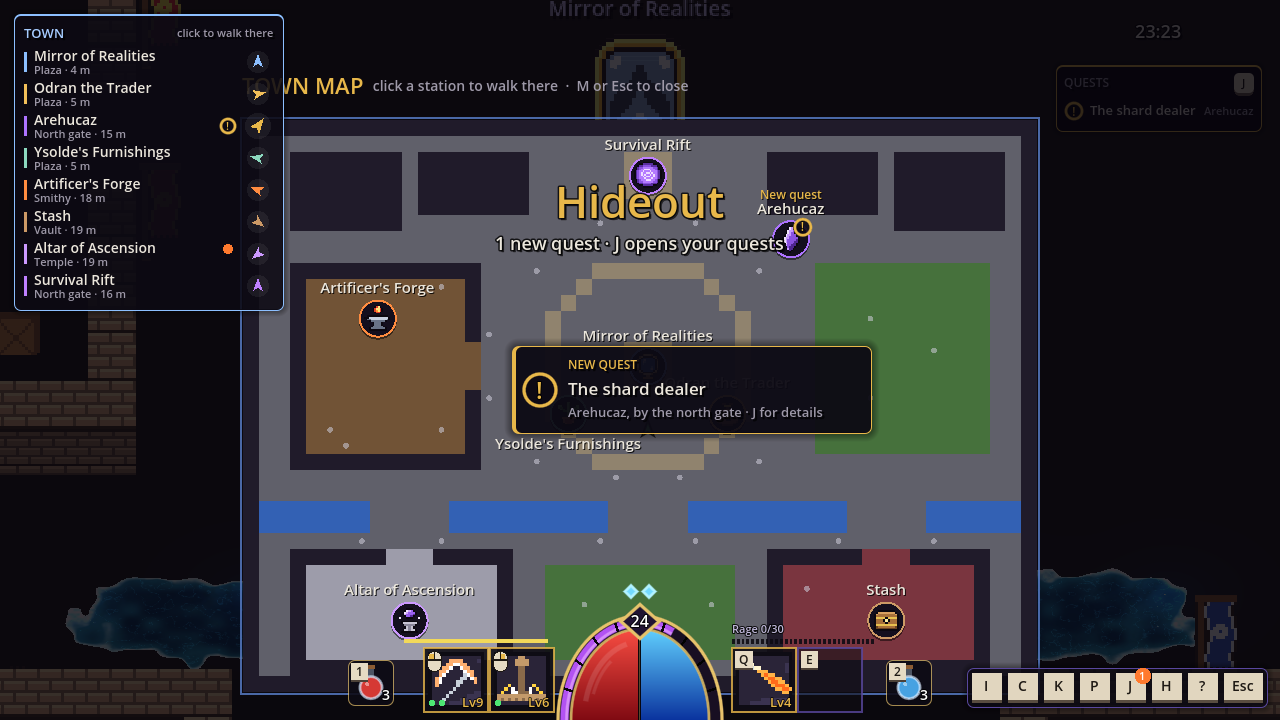
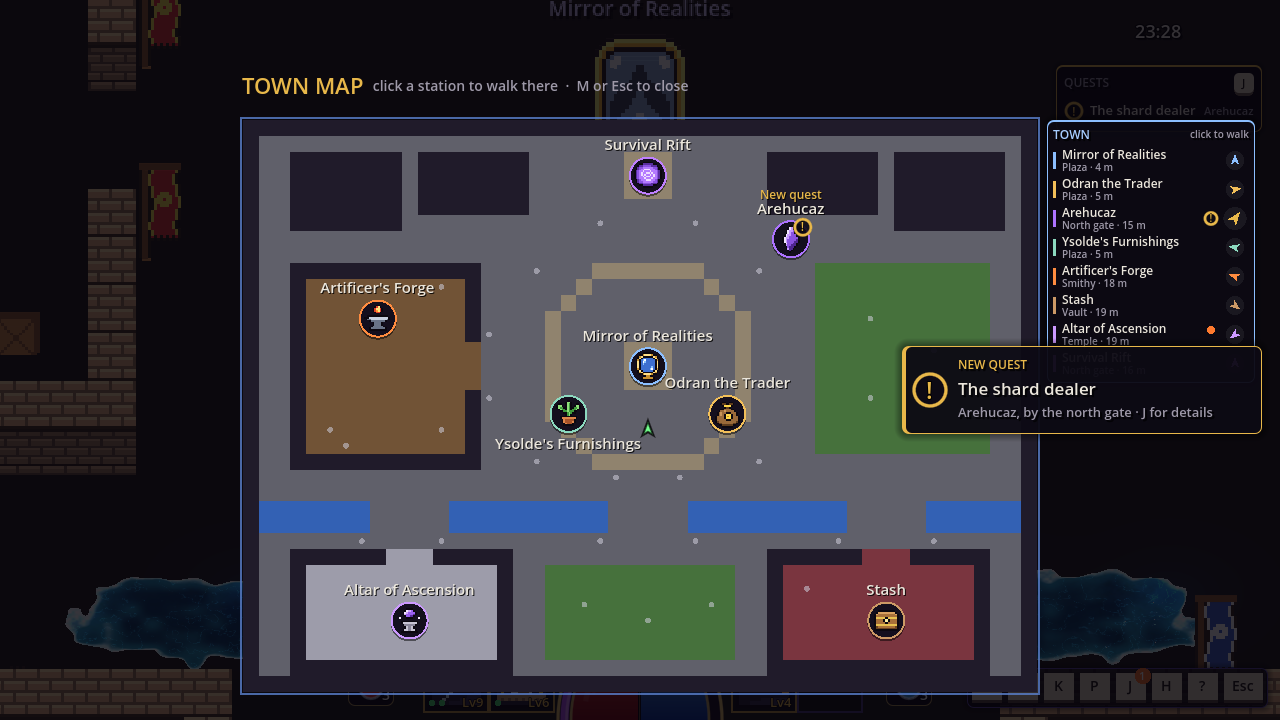
Big town map: legend right of the map, HUD behind the veil
- The town directory (the map's legend) sits just right of the drawn map,
  top-aligned, with smaller rows so it fits (TownMap.MapArea).
- The big map is built after the vitals, skills and menu bar again, so its
  veil covers them; only the legend is drawn over it.

Claude-Session: https://claude.ai/code/session_01GALgSjVnubwo1yyZxU2YPv

diff --git a/scripts/UI/HideoutHud.cs b/scripts/UI/HideoutHud.cs
@@ -33,6 +33,20 @@ public partial class HideoutHud : CanvasLayer
     private Control _root = null!;
     private VBoxContainer _directory = null!;
     private Control _directoryHost = null!;
+    private Control _directoryPanel = null!;
+
+    /// <summary>Puts the directory just right of the big map's drawn area, top-aligned with it.</summary>
+    private void PlaceDirectory()
+    {
+        if (_bigMap is null || !_directoryHost.Visible)
+        {
+            return;
+        }
+
+        Rect2 area = _bigMap.MapArea;
+        float x = Mathf.Min(area.End.X + 10f, _root.Size.X - _directoryPanel.Size.X - 8f);
+        _directoryPanel.Position = new Vector2(x, area.Position.Y);
+    }
 
     /// <summary>The town directory shows (only with the big map; tests).</summary>
     public bool DirectoryShowing => _directoryHost.Visible;
@@ -78,13 +92,14 @@ public partial class HideoutHud : CanvasLayer
         _root = UiTheme.FullRect(this);
         _root.MouseFilter = Control.MouseFilterEnum.Ignore;
         BuildTracker();
-        BuildBigMap();
         BuildMenuBar();
-        BuildDirectory();
         BuildVitals();
         BuildPrompt();
         BuildBanner();
         BuildParty();
+        // The big map's veil goes over the whole HUD (vitals, skills, menu bar); its legend over the map.
+        BuildBigMap();
+        BuildDirectory();
     }
 
     private static StyleBoxFlat Glass(Color accent, int top = 2)
@@ -192,18 +207,22 @@ public partial class HideoutHud : CanvasLayer
 
     private void BuildDirectory()
     {
-        // Top left, and only while the big map is open (owner, 2026-10-29): it is the map's legend.
+        // Only while the big map is open, as its legend, next to the map's right edge
+        // (owner, 2026-10-29). Over the map's veil, which itself covers the rest of the HUD.
         _directoryHost = new Control { Name = "TownDirectoryHost", MouseFilter = Control.MouseFilterEnum.Ignore, Visible = false };
         _root.AddChild(_directoryHost);
-        var panel = new PanelContainer { Name = "TownDirectory", Position = new Vector2(14f, 14f) };
-        panel.AddThemeStyleboxOverride("panel", Glass(new Color(0.55f, 0.75f, 1f)));
+        var panel = new PanelContainer { Name = "TownDirectory" };
+        StyleBoxFlat glass = Glass(new Color(0.55f, 0.75f, 1f));
+        glass.SetContentMarginAll(6f);
+        panel.AddThemeStyleboxOverride("panel", glass);
         _directoryHost.AddChild(panel);
-        VBoxContainer column = UiTheme.VBox(panel, 2);
+        _directoryPanel = panel;
+        VBoxContainer column = UiTheme.VBox(panel, 1);
         HBoxContainer head = UiTheme.HBox(column, 6);
-        Label title = UiTheme.Label("TOWN", 13, new Color(0.65f, 0.8f, 1f));
+        Label title = UiTheme.Label("TOWN", 12, new Color(0.65f, 0.8f, 1f));
         title.SizeFlagsHorizontal = Control.SizeFlags.ExpandFill;
         head.AddChild(title);
-        head.AddChild(UiTheme.Label("click to walk there", 11, UiTheme.TextDim));
+        head.AddChild(UiTheme.Label("click to walk", 10, UiTheme.TextDim));
         _directory = UiTheme.VBox(column, 2);
         foreach (PropDef def in HideoutCatalog.Props.Where(p => p.Station))
         {
@@ -212,7 +231,7 @@ public partial class HideoutHud : CanvasLayer
             _rows.Add(row);
         }
 
-        HudLayout.Register(panel, "town", "Town directory", avoid: HudAvoid.Hide);
+
     }
 
     // --- big map (M / Tab) -----------------------------------------------------------
@@ -389,6 +408,7 @@ public partial class HideoutHud : CanvasLayer
         UpdateSkills();
         UpdatePrompt();
         _directoryHost.Visible = BigMapOpen;
+        PlaceDirectory();
         foreach (DirectoryRow row in _rows)
         {
             row.Refresh();
@@ -543,7 +563,7 @@ public partial class HideoutHud : CanvasLayer
 
         public override void _Ready()
         {
-            CustomMinimumSize = new Vector2(250f, 30f);
+            CustomMinimumSize = new Vector2(196f, 27f);
             MouseFilter = MouseFilterEnum.Stop;
             MouseDefaultCursorShape = CursorShape.PointingHand;
             UiTheme.InstantTooltip(this, () => $"{Def.Name}\n{Def.Blurb}");
@@ -586,22 +606,22 @@ public partial class HideoutHud : CanvasLayer
             }
 
             DrawRect(new Rect2(0f, 5f, 3f, Size.Y - 10f), Def.Accent);
-            DrawString(font, new Vector2(10f, 14f), Def.Name, HorizontalAlignment.Left, Size.X - 50f, 14, _hover ? Colors.White : UiTheme.Text);
-            DrawString(font, new Vector2(10f, 27f), _where, HorizontalAlignment.Left, Size.X - 50f, 11, UiTheme.TextDim);
+            DrawString(font, new Vector2(9f, 12f), Def.Name, HorizontalAlignment.Left, Size.X - 46f, 12, _hover ? Colors.White : UiTheme.Text);
+            DrawString(font, new Vector2(9f, 24f), _where, HorizontalAlignment.Left, Size.X - 46f, 10, UiTheme.TextDim);
             // A quest's marker wins over the ascendancy-points dot (the altar has both).
             if (_quest != QuestMarker.None)
             {
-                QuestGlyphs.DrawMarker(this, new Vector2(Size.X - 46f, Size.Y / 2f), 8f, _quest, 11f);
+                QuestGlyphs.DrawMarker(this, new Vector2(Size.X - 38f, Size.Y / 2f), 7f, _quest, 10f);
             }
             else if (_alert)
             {
-                DrawCircle(new Vector2(Size.X - 46f, 10f), 5f, UiTheme.Ember);
+                DrawCircle(new Vector2(Size.X - 38f, 9f), 4f, UiTheme.Ember);
             }
 
             // The arrow: which way to walk (gold and a fifth larger when a quest waits here).
             bool waiting = _quest is QuestMarker.New or QuestMarker.Ready;
-            float k = waiting ? 1.2f : 1f;
-            Vector2 c = new(Size.X - 16f, Size.Y / 2f);
+            float k = waiting ? 1.05f : 0.85f;
+            Vector2 c = new(Size.X - 14f, Size.Y / 2f);
             Vector2 f = Vector2.FromAngle(_angle);
             Vector2 s = new(-f.Y, f.X);
             DrawCircle(c, 11f * k, new Color(1f, 1f, 1f, 0.06f));

diff --git a/scripts/UI/TownMap.cs b/scripts/UI/TownMap.cs
@@ -35,6 +35,9 @@ public partial class TownMap : Control
     private string? _hovered;
     private string? _hoveredNow;
     private Rect2 _area;
+
+    /// <summary>Where the town is drawn inside the control (the big map's legend lines up with it).</summary>
+    public Rect2 MapArea => _area;
     private float _px;
 
     public override void _Ready()

diff --git a/docs/design/menus.md b/docs/design/menus.md
@@ -860,8 +860,10 @@ gear if the owner wants it there too. HUD-editor id `loot_feed`.
 
 - The **character plate** (portrait, name, level, class, best tier, XP, gold, the points
   pill) left the HUD: it is now the head of the **character panel (C)**.
-- The **town directory** shows only while the big town map is open (M / Tab), top left,
-  as the map's legend.
+- The **town directory** shows only while the big town map is open (M / Tab), as the
+  map's legend: smaller (196 px rows), top-aligned just right of the drawn map
+  (`TownMap.MapArea`). The big map's veil covers the whole HUD (vitals, skills, menu
+  bar); only the legend sits over it. Not movable in Edit HUD (it follows the map).
 - The **quest tracker** is as wide as the minimap's frame (`QuestTracker.PanelWidth`).
 - The **menu bar** (I, C, K, P, J, H, ?, Esc) moved to the bottom right, 12 px off the
   edges, as bare key caps a touch shorter than the flask boxes; what each does is its
